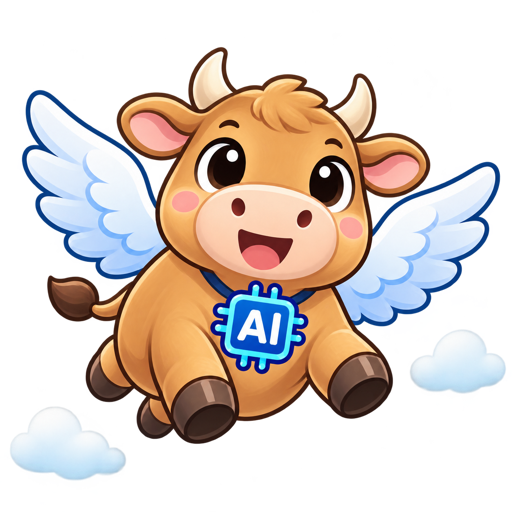
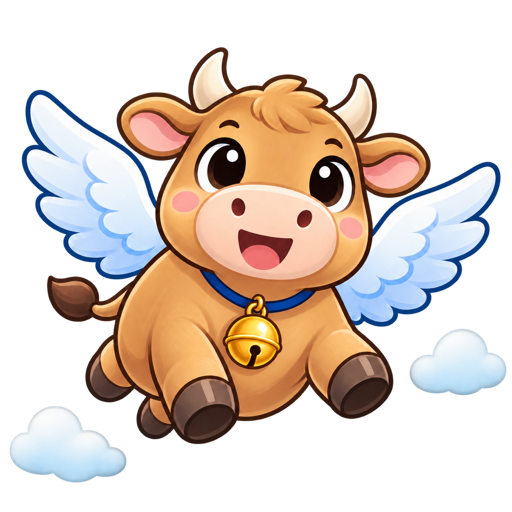
하늘소 사람들 메뉴 추가(2006년 명단 41명·임원 기록), AI 배지 없는 프로필 이미지로 교체

diff --git a/_tabs/people.md b/_tabs/people.md
@@ -1,0 +1,47 @@
+---
+title: 하늘소 사람들
+icon: fas fa-user-friends
+order: 4
+---
+
+2006년 9월 하늘소 홈페이지의 [하늘소사람들](https://web.archive.org/web/20060924041131/http://hanulso.knu.ac.kr/people/people.php) 명단을 옮겼습니다. 당시 홈페이지에 가입해 명단에 올린 분들만 있어서 **비어 있는 기수가 많고, 20기 이후는 명단이 없습니다.**
+
+> 명단에 더하고 싶거나, 고치거나 빼고 싶은 내용이 있으면 [커뮤니티]({{ '/community/' | relative_url }})로 알려 주세요. 홈페이지 주소는 2006년 것이라 대부분 닫혔습니다. 그래서 인터넷 아카이브에 남은 사본으로 연결합니다.
+{: .prompt-info }
+
+{% assign people = site.data.people %}
+{% assign max_gen = people | map: 'gen' | sort | last %}
+
+{% for g in (1..max_gen) %}
+{% assign members = people | where: 'gen', g %}
+<h2 id="gen-{{ g }}">{{ g }}기</h2>
+{% if members.size == 0 %}
+<p class="text-muted">명단에 올라온 분이 없습니다.</p>
+{% else %}
+<div class="table-wrapper"><table>
+<thead><tr><th>이름</th><th>닉네임</th><th>아이디</th><th>홈페이지</th></tr></thead>
+<tbody>
+{% for p in members %}
+<tr>
+<td>{{ p.name }}</td>
+<td>{{ p.nick }}</td>
+<td>{{ p.id }}</td>
+<td>{% if p.link %}<a href="{{ p.link }}">{{ p.link | remove: 'https://' | remove: 'http://' }}</a>{% elsif p.homepage %}<a href="https://web.archive.org/web/2006/{{ p.homepage }}">{{ p.homepage | remove: 'http://' }}</a>{% endif %}</td>
+</tr>
+{% endfor %}
+</tbody>
+</table></div>
+{% endif %}
+{% endfor %}
+
+## 임원
+
+옛 홈페이지 옆 칸의 「간부」 기록입니다. 캡처된 날짜의 것만 남아 있습니다.
+
+| 캡처 날짜 | 회장 | 부회장 | 서기 |
+|---|---|---|---|
+| 2006년 3월 | 19기 한승욱 | 19기 오한빈 | 19기 김새롬 |
+| 2006년 9월 | 16기 차정현 | 19기 오한빈 | 20기 서정인 |
+| 2007년 4월 | 18기 조용호 | 17기 김창곤 | 20기 서정인 |
+
+지도교수는 세 기록 모두 강순주 교수(Real-Time System Lab)입니다. 다른 해의 임원을 기억하시면 알려 주세요.

diff --git a/README.md b/README.md
@@ -13,6 +13,7 @@
 | `_tabs/intro.md` | 하늘소 소개 |
 | `_tabs/history.md` | 연혁 |
 | `_tabs/works.md` | 작품 |
+| `_tabs/people.md` | 하늘소 사람들 (명단은 `_data/people.yml`) |
 | `_tabs/community.md` | 커뮤니티 링크, 제보 방법, 운영진 |
 | `_posts/` | 소식과 기록 글 |
 | `assets/img/` | 이미지 |
@@ -39,9 +40,23 @@ tags: [모임]
 - 이미지는 `assets/img/posts/`에 넣고 `![설명](/assets/img/posts/파일.jpg)`로 씁니다.
 - GitHub 웹에서 파일을 바로 만들거나 고쳐도 됩니다. 사이트의 각 글 아래 「이 글 편집」 링크가 편집 화면으로 이어집니다.
 
+## 명단에 사람 더하기
+
+`_data/people.yml`에 한 사람씩 적습니다. `gen`(기수)과 `name`만 있으면 되고 나머지는 선택입니다.
+
+```yaml
+- gen: 21
+  name: "홍길동"
+  nick: "길동"
+  id: "gildong"
+  link: "https://github.com/gildong"   # 지금 쓰는 주소. 있으면 이 주소로 연결한다
+```
+
+`homepage`는 옛 명단에 있던 주소를 보관하는 칸이라, 사이트에서는 Wayback 사본으로 연결합니다.
+
 ## 기록을 올릴 때 지킬 것
 
-- **개인정보** — 이름, 연락처, 사진은 본인이 공개에 동의한 것만 올립니다. 옛 홈페이지의 회원 명단(아이디, 닉네임, 개인 홈페이지)은 옮기지 않았습니다.
+- **개인정보** — 새로 올리는 연락처와 사진은 본인이 공개에 동의한 것만 올립니다. 옛 홈페이지 명단에서 옮긴 정보는 본인이 고치거나 빼 달라고 하면 바로 반영합니다.
 - **출처** — 옛 자료를 옮길 때는 원본 위치(Wayback 링크 등)를 함께 적습니다.
 - **개인이 쓴 옛 게시글** — 통째로 옮기지 않고 링크를 겁니다.
 

diff --git a/_posts/2026-09-24-old-homepage-2007.md b/_posts/2026-09-24-old-homepage-2007.md
@@ -26,7 +26,7 @@ tags: [옛 홈페이지, 연혁]
 
 이 밖에 하늘소위키와 사이트 링크 메뉴가 있었습니다.
 
-「하늘소는?」, 「하늘소연혁」, 「하늘소작품」의 내용은 이 홈페이지의 [소개]({{ '/intro/' | relative_url }}), [연혁]({{ '/history/' | relative_url }}), [작품]({{ '/works/' | relative_url }})으로 옮겼습니다. 「하늘소사람들」에는 기수별 회원 명단이 있었는데, 개인정보가 들어 있어 옮기지 않았습니다.
+「하늘소는?」, 「하늘소연혁」, 「하늘소사람들」, 「하늘소작품」의 내용은 이 홈페이지의 [소개]({{ '/intro/' | relative_url }}), [연혁]({{ '/history/' | relative_url }}), [하늘소 사람들]({{ '/people/' | relative_url }}), [작품]({{ '/works/' | relative_url }})으로 옮겼습니다.
 
 ## OB 오손도손
 

diff --git a/_tabs/community.md b/_tabs/community.md
@@ -1,7 +1,7 @@
 ---
 title: 커뮤니티
 icon: fas fa-users
-order: 4
+order: 5
 ---
 
 이 홈페이지는 소식을 모아 두는 곳이고, 이야기는 아래 커뮤니티에서 나눕니다.

diff --git a/_tabs/categories.md b/_tabs/categories.md
@@ -1,5 +1,5 @@
 ---
 layout: categories
 icon: fas fa-stream
-order: 5
+order: 6
 ---

diff --git a/_tabs/archives.md b/_tabs/archives.md
@@ -1,5 +1,5 @@
 ---
 layout: archives
 icon: fas fa-archive
-order: 7
+order: 8
 ---

diff --git a/_tabs/tags.md b/_tabs/tags.md
@@ -1,5 +1,5 @@
 ---
 layout: tags
 icon: fas fa-tags
-order: 6
+order: 7
 ---
